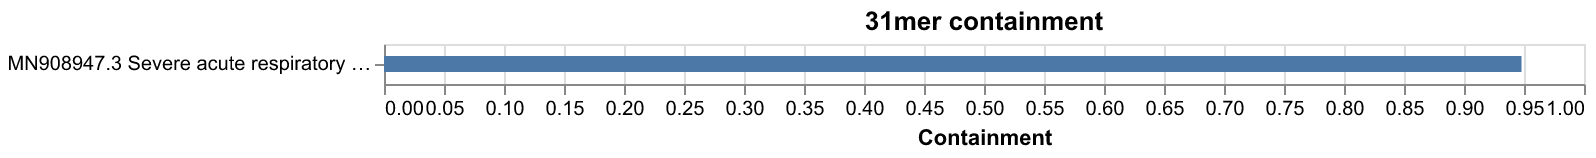
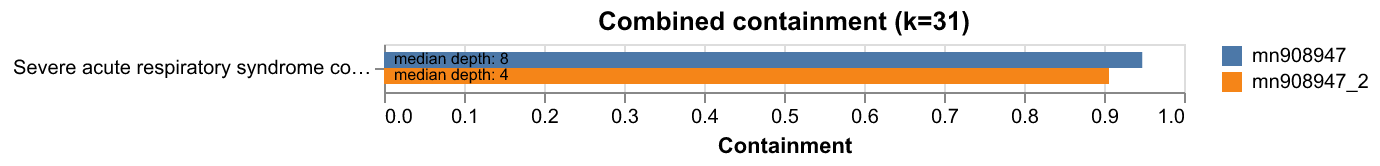
Readme etc

diff --git a/README.md b/README.md
@@ -2,7 +2,7 @@
 
 > [there are known knowns; there are things we know we know](https://en.wikipedia.org/wiki/There_are_unknown_unknowns)
 
-A workflow for quickly estimating the containment of sequences in a fasta file (`--references`) within either a single FASTQ file or a directory of FASTQ files (`--reads`). Outputs containment values in CSV format and plots them. Specifiy *k*-mer length with `--kmer`  (default 31) and sketch resolution with `--scaled` (default 100).
+A workflow for quickly estimating the containment of sequences in a fasta file (`--references`) for either a single FASTQ file or a directory of FASTQ files (`--reads`). Coverage depth estimates are also provided. Outputs containment values and abundance estimates in CSV format and plots them. Specifiy *k*-mer length with `--kmer`  (default 31) and sketch resolution with `--scaled` (default 100).
 
 ## Requirements
 
